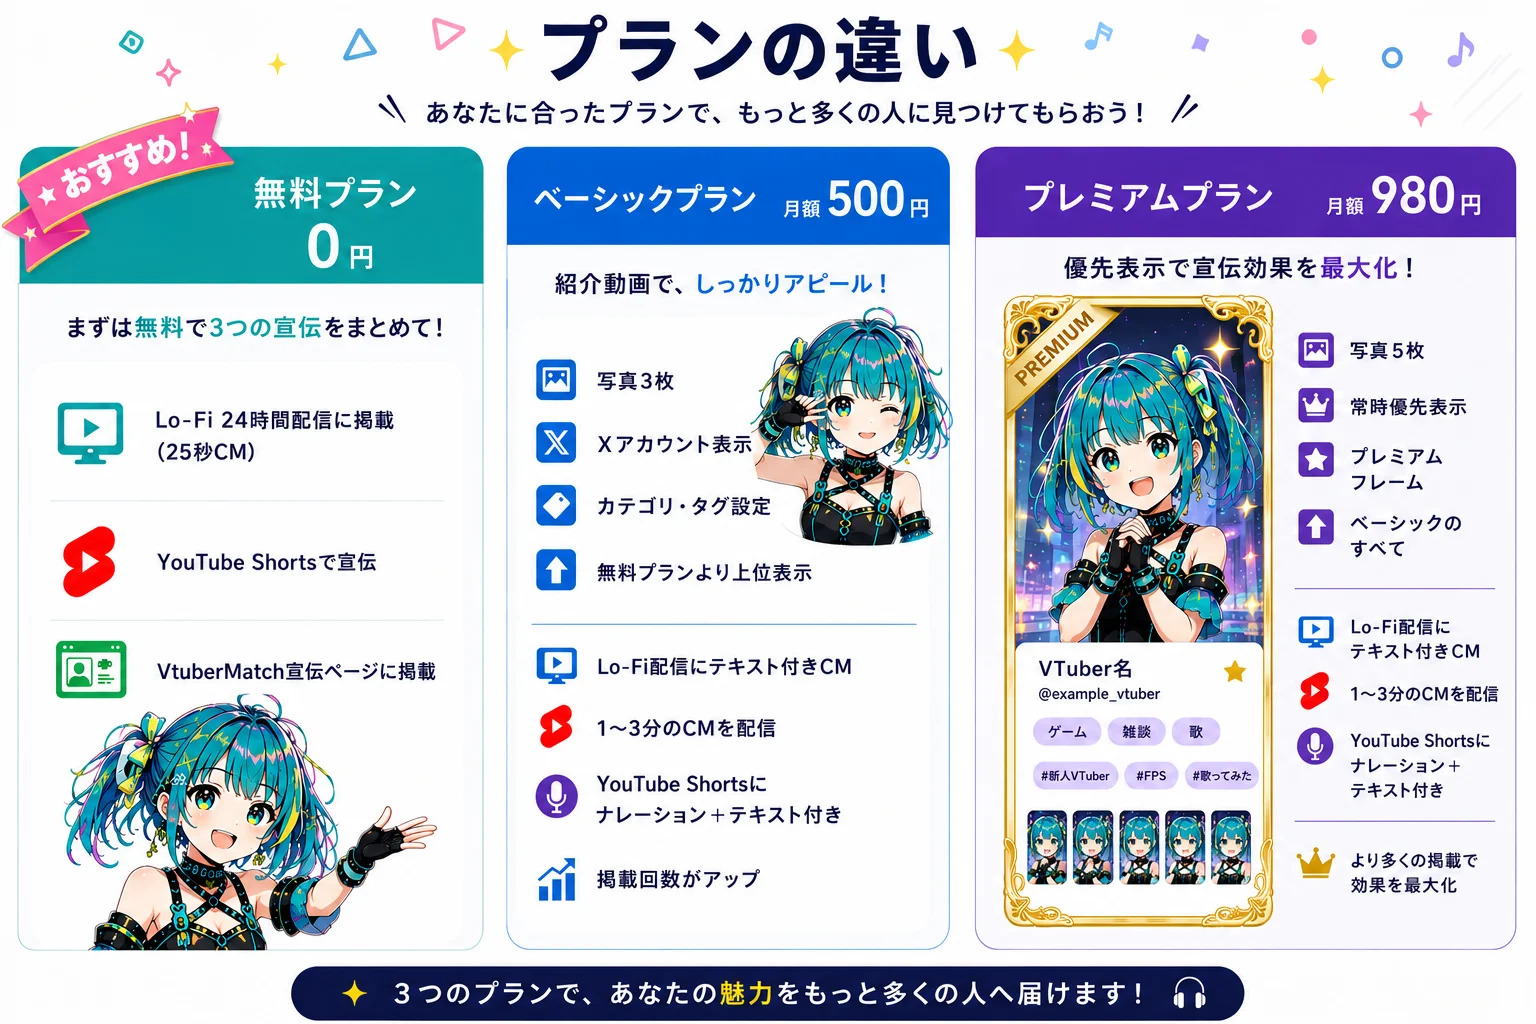
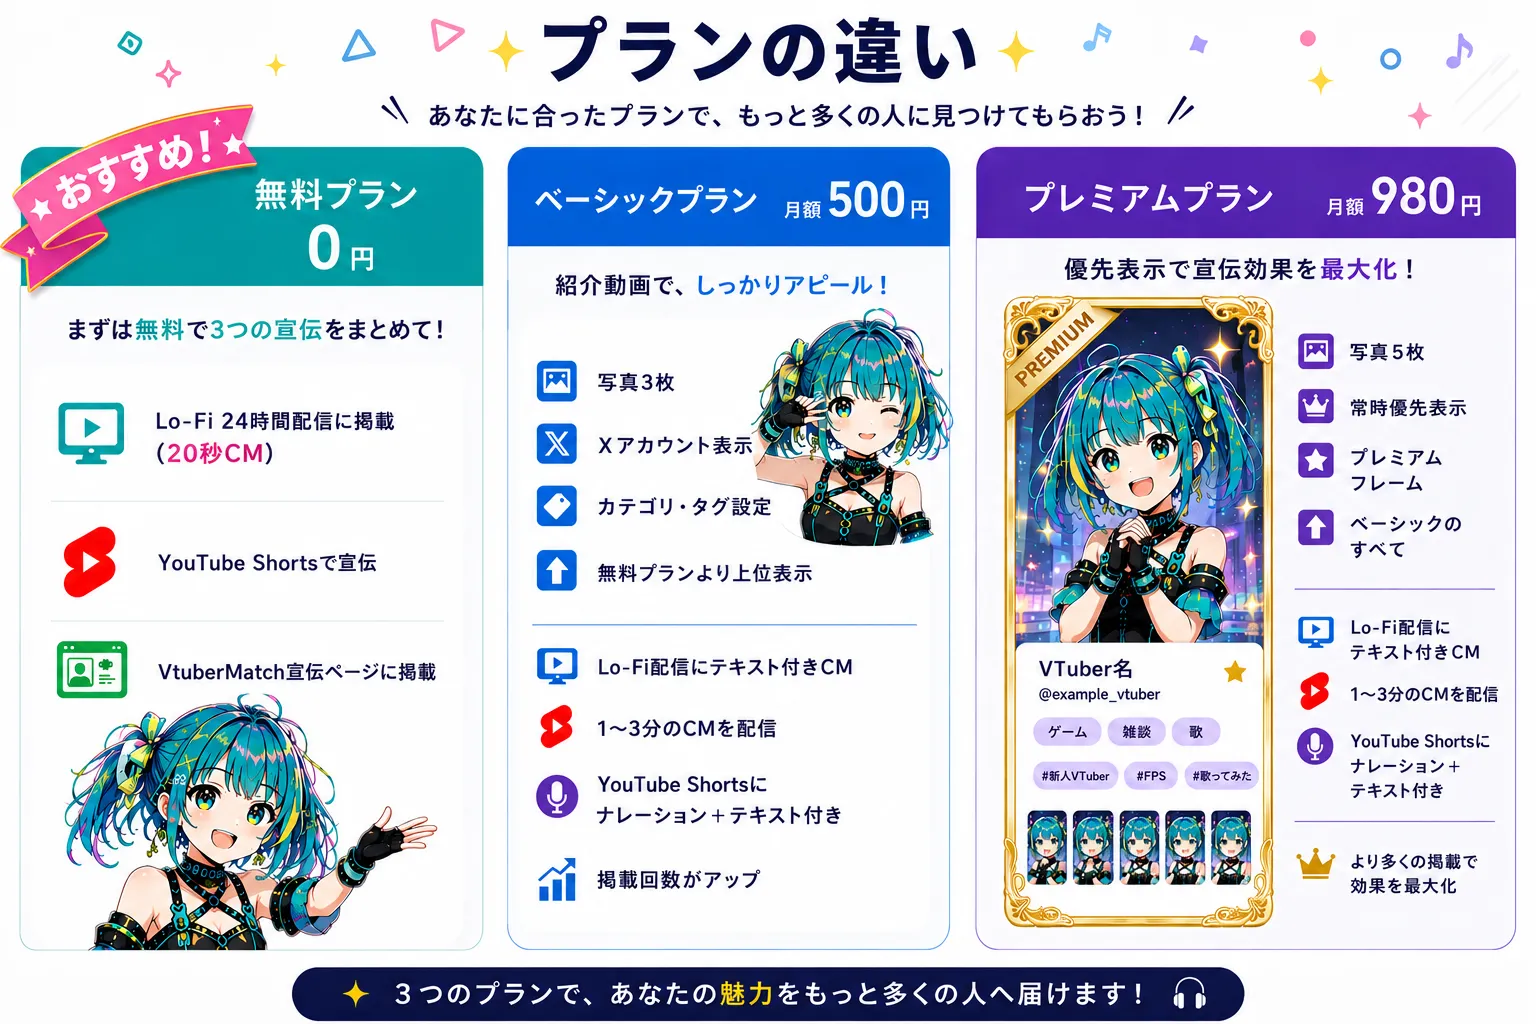
プラン比較画像を20秒CM表記の版に差し替え、容量を約1/10に圧縮
WebP 184KB(主)+JPEG 392KB(フォールバック)。元PNG(1.8MB)は同梱しない。

diff --git a/app/apply/page.tsx b/app/apply/page.tsx
@@ -39,7 +39,7 @@ export default function ApplyPage() {
             <picture>
               <source srcSet="/promo/plan-comparison/plan-comparison.webp" type="image/webp" />
               <img
-                src="/promo/plan-comparison/plan-comparison.png"
+                src="/promo/plan-comparison/plan-comparison.jpg"
                 alt="プランの違い: 無料プランはLo-Fi 24時間配信への掲載・YouTube Shortsでの宣伝・VtuberMatch宣伝ページ掲載がまとめて0円。ベーシックプラン月額500円は写真3枚・Xアカウント表示・カテゴリタグ設定・紹介動画で上位表示。プレミアムプラン月額980円は写真5枚・常時優先表示・プレミアムフレームで宣伝効果を最大化。"
                 loading="eager"
               />
